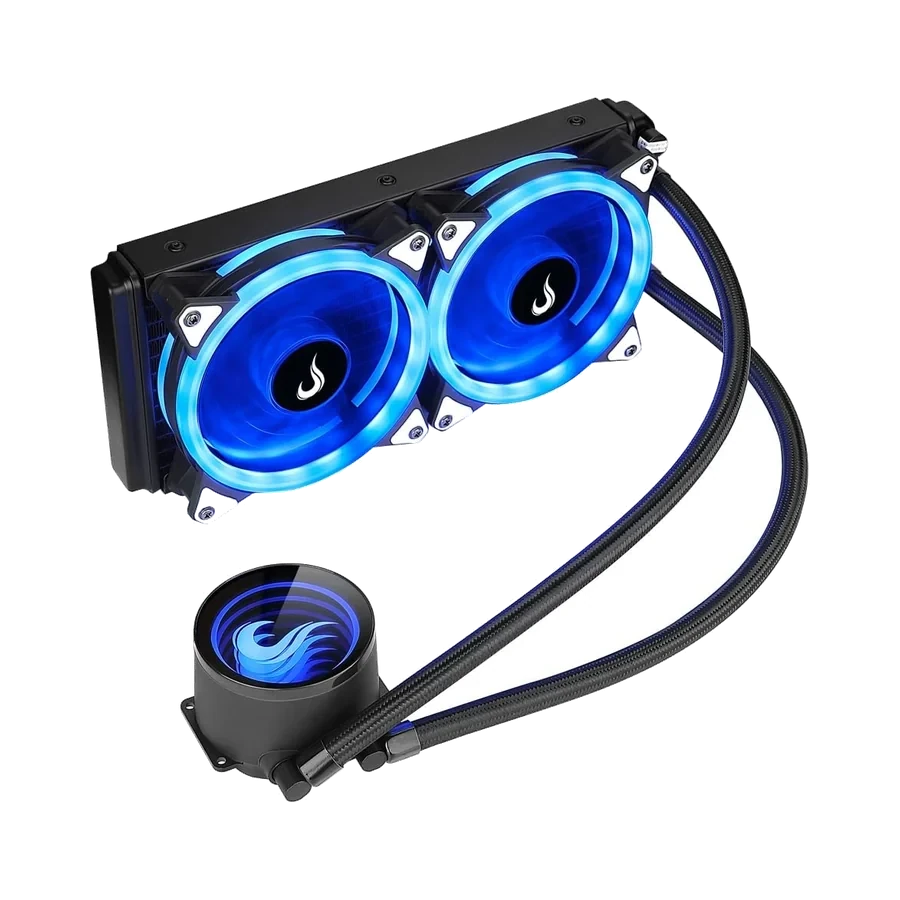
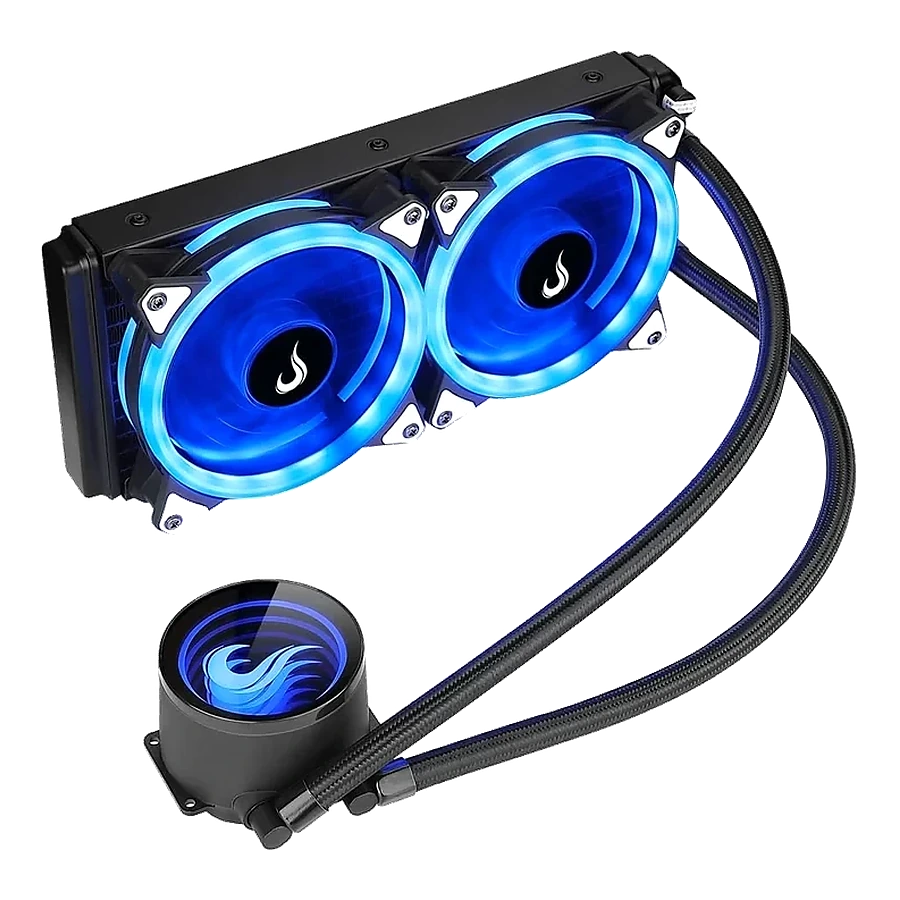
Atualizacao 2026-04-21 21:09

diff --git a/indicacoes/games.html b/indicacoes/games.html
@@ -45,7 +45,7 @@
           <div class="product-grid affiliate-product-grid">
             <article class="product-card affiliate-product-card">
               <div class="product-media">
-                <img src="../assets/img/indicacoes/produtos/games-01.webp" alt="PlayStation 5 Slim Digital 825GB" width="900" height="900" loading="lazy" decoding="async">
+                <img src="../assets/img/indicacoes/produtos/games-01.webp?v=20260421-recorte-premium" alt="PlayStation 5 Slim Digital 825GB" width="900" height="900" loading="lazy" decoding="async">
               </div>
               <div class="product-info">
                 <h4>PlayStation 5 Slim Digital 825GB</h4>
@@ -54,7 +54,7 @@
             </article>
             <article class="product-card affiliate-product-card">
               <div class="product-media">
-                <img src="../assets/img/indicacoes/produtos/games-02.webp" alt="PlayStation 5 Pro" width="900" height="900" loading="lazy" decoding="async">
+                <img src="../assets/img/indicacoes/produtos/games-02.webp?v=20260421-recorte-premium" alt="PlayStation 5 Pro" width="900" height="900" loading="lazy" decoding="async">
               </div>
               <div class="product-info">
                 <h4>PlayStation 5 Pro</h4>
@@ -63,7 +63,7 @@
             </article>
             <article class="product-card affiliate-product-card">
               <div class="product-media">
-                <img src="../assets/img/indicacoes/produtos/games-03.webp" alt="Controle DualSense Midnight Black" width="900" height="900" loading="lazy" decoding="async">
+                <img src="../assets/img/indicacoes/produtos/games-03.webp?v=20260421-recorte-premium" alt="Controle DualSense Midnight Black" width="900" height="900" loading="lazy" decoding="async">
               </div>
               <div class="product-info">
                 <h4>Controle DualSense Midnight Black</h4>
@@ -72,7 +72,7 @@
             </article>
             <article class="product-card affiliate-product-card">
               <div class="product-media">
-                <img src="../assets/img/indicacoes/produtos/games-04.webp" alt="Controle DualSense Edição Limitada" width="900" height="900" loading="lazy" decoding="async">
+                <img src="../assets/img/indicacoes/produtos/games-04.webp?v=20260421-recorte-premium" alt="Controle DualSense Edição Limitada" width="900" height="900" loading="lazy" decoding="async">
               </div>
               <div class="product-info">
                 <h4>Controle DualSense Edição Limitada</h4>
@@ -81,7 +81,7 @@
             </article>
             <article class="product-card affiliate-product-card">
               <div class="product-media">
-                <img src="../assets/img/indicacoes/produtos/games-05.webp" alt="Nintendo Switch 2 Nacional" width="900" height="900" loading="lazy" decoding="async">
+                <img src="../assets/img/indicacoes/produtos/games-05.webp?v=20260421-recorte-premium" alt="Nintendo Switch 2 Nacional" width="900" height="900" loading="lazy" decoding="async">
               </div>
               <div class="product-info">
                 <h4>Nintendo Switch 2 Nacional</h4>
@@ -90,7 +90,7 @@
             </article>
             <article class="product-card affiliate-product-card">
               <div class="product-media">
-                <img src="../assets/img/indicacoes/produtos/games-06.webp" alt="Mini Game Portátil 400 Jogos" width="900" height="900" loading="lazy" decoding="async">
+                <img src="../assets/img/indicacoes/produtos/games-06.webp?v=20260421-recorte-premium" alt="Mini Game Portátil 400 Jogos" width="900" height="900" loading="lazy" decoding="async">
               </div>
               <div class="product-info">
                 <h4>Mini Game Portátil 400 Jogos</h4>
@@ -99,7 +99,7 @@
             </article>
             <article class="product-card affiliate-product-card">
               <div class="product-media">
-                <img src="../assets/img/indicacoes/produtos/games-07.webp" alt="Console Portátil Windows 120Hz" width="900" height="900" loading="lazy" decoding="async">
+                <img src="../assets/img/indicacoes/produtos/games-07.webp?v=20260421-recorte-premium" alt="Console Portátil Windows 120Hz" width="900" height="900" loading="lazy" decoding="async">
               </div>
               <div class="product-info">
                 <h4>Console Portátil Windows 120Hz</h4>

diff --git a/indicacoes/fones.html b/indicacoes/fones.html
@@ -45,7 +45,7 @@
           <div class="product-grid affiliate-product-grid">
             <article class="product-card affiliate-product-card">
               <div class="product-media">
-                <img src="../assets/img/indicacoes/produtos/fones-01.webp" alt="HAYLOU S30 Fones de Ouvido BT com Cancelamento de Ruído Ativo…" width="900" height="900" loading="lazy" decoding="async">
+                <img src="../assets/img/indicacoes/produtos/fones-01.webp?v=20260421-recorte-premium" alt="HAYLOU S30 Fones de Ouvido BT com Cancelamento de Ruído Ativo…" width="900" height="900" loading="lazy" decoding="async">
               </div>
               <div class="product-info">
                 <h4>HAYLOU S30 Fones de Ouvido BT com Cancelamento de Ruído Ativo…</h4>
@@ -54,7 +54,7 @@
             </article>
             <article class="product-card affiliate-product-card">
               <div class="product-media">
-                <img src="../assets/img/indicacoes/produtos/fones-02.webp" alt="Fone de Ouvido Sem Fio, JBL, BT, Wave Beam 2, Intra Auricular…" width="900" height="900" loading="lazy" decoding="async">
+                <img src="../assets/img/indicacoes/produtos/fones-02.webp?v=20260421-recorte-premium" alt="Fone de Ouvido Sem Fio, JBL, BT, Wave Beam 2, Intra Auricular…" width="900" height="900" loading="lazy" decoding="async">
               </div>
               <div class="product-info">
                 <h4>Fone de Ouvido Sem Fio, JBL, BT, Wave Beam 2, Intra Auricular…</h4>
@@ -63,7 +63,7 @@
             </article>
             <article class="product-card affiliate-product-card">
               <div class="product-media">
-                <img src="../assets/img/indicacoes/produtos/fones-03.webp" alt="Basike Fone de Ouvido BT com Cancelamento de Ruído ANC, Áudio…" width="900" height="900" loading="lazy" decoding="async">
+                <img src="../assets/img/indicacoes/produtos/fones-03.webp?v=20260421-recorte-premium" alt="Basike Fone de Ouvido BT com Cancelamento de Ruído ANC, Áudio…" width="900" height="900" loading="lazy" decoding="async">
               </div>
               <div class="product-info">
                 <h4>Basike Fone de Ouvido BT com Cancelamento de Ruído ANC, Áudio…</h4>
@@ -72,7 +72,7 @@
             </article>
             <article class="product-card affiliate-product-card">
               <div class="product-media">
-                <img src="../assets/img/indicacoes/produtos/fones-04.webp" alt="Headset Gamer Redragon Zeus Pro Preto Sem Fio 7.1 H510-PRO" width="900" height="900" loading="lazy" decoding="async">
+                <img src="../assets/img/indicacoes/produtos/fones-04.webp?v=20260421-recorte-premium" alt="Headset Gamer Redragon Zeus Pro Preto Sem Fio 7.1 H510-PRO" width="900" height="900" loading="lazy" decoding="async">
               </div>
               <div class="product-info">
                 <h4>Headset Gamer Redragon Zeus Pro Preto Sem Fio 7.1 H510-PRO</h4>

diff --git a/indicacoes/mouse.html b/indicacoes/mouse.html
@@ -54,7 +54,7 @@
             </article>
             <article class="product-card affiliate-product-card">
               <div class="product-media">
-                <img src="../assets/img/indicacoes/produtos/mouse-02.webp" alt="Mouse sem fio Redragon St4r Pro" width="900" height="900" loading="lazy" decoding="async">
+                <img src="../assets/img/indicacoes/produtos/mouse-02.webp?v=20260421-recorte-premium" alt="Mouse sem fio Redragon St4r Pro" width="900" height="900" loading="lazy" decoding="async">
               </div>
               <div class="product-info">
                 <h4>Mouse sem fio Redragon St4r Pro</h4>
@@ -63,7 +63,7 @@
             </article>
             <article class="product-card affiliate-product-card">
               <div class="product-media">
-                <img src="../assets/img/indicacoes/produtos/mouse-03.webp" alt="Redragon MOUSE GAMER CENTROPHORUS 2 M601-RGB PRETO" width="900" height="900" loading="lazy" decoding="async">
+                <img src="../assets/img/indicacoes/produtos/mouse-03.webp?v=20260421-recorte-premium" alt="Redragon MOUSE GAMER CENTROPHORUS 2 M601-RGB PRETO" width="900" height="900" loading="lazy" decoding="async">
               </div>
               <div class="product-info">
                 <h4>Redragon MOUSE GAMER CENTROPHORUS 2 M601-RGB PRETO</h4>

diff --git a/indicacoes/cooler-refrigeracao.html b/indicacoes/cooler-refrigeracao.html
@@ -72,7 +72,7 @@
             </article>
             <article class="product-card affiliate-product-card">
               <div class="product-media">
-                <img src="../assets/img/indicacoes/produtos/cooler-refrigeracao-04.webp" alt="Water Cooler Rise Mode Gamer Black, RGB, 240mm - RM-WCB-02-RGB" width="900" height="900" loading="lazy" decoding="async">
+                <img src="../assets/img/indicacoes/produtos/cooler-refrigeracao-04.webp?v=20260421-recorte-premium" alt="Water Cooler Rise Mode Gamer Black, RGB, 240mm - RM-WCB-02-RGB" width="900" height="900" loading="lazy" decoding="async">
               </div>
               <div class="product-info">
                 <h4>Water Cooler Rise Mode Gamer Black, RGB, 240mm - RM-WCB-02-RGB</h4>

diff --git a/indicacoes/smartphones.html b/indicacoes/smartphones.html
@@ -54,7 +54,7 @@
             </article>
             <article class="product-card affiliate-product-card">
               <div class="product-media">
-                <img src="../assets/img/indicacoes/produtos/smartphones-02.webp" alt="Smartphone Xiaomi Redmi 15C Twilight Orange (Laranja) 8GB RAM…" width="900" height="900" loading="lazy" decoding="async">
+                <img src="../assets/img/indicacoes/produtos/smartphones-02.webp?v=20260421-recorte-premium" alt="Smartphone Xiaomi Redmi 15C Twilight Orange (Laranja) 8GB RAM…" width="900" height="900" loading="lazy" decoding="async">
               </div>
               <div class="product-info">
                 <h4>Smartphone Xiaomi Redmi 15C Twilight Orange (Laranja) 8GB RAM…</h4>
